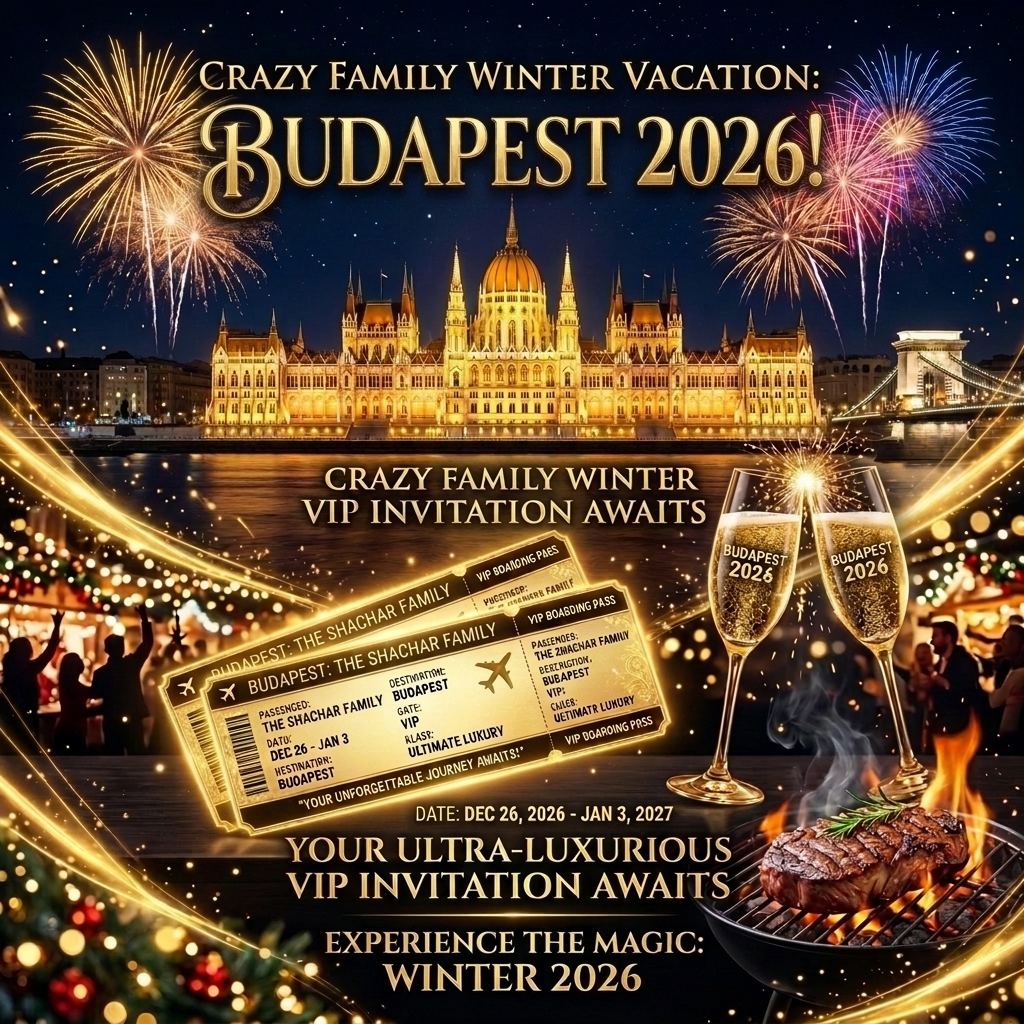
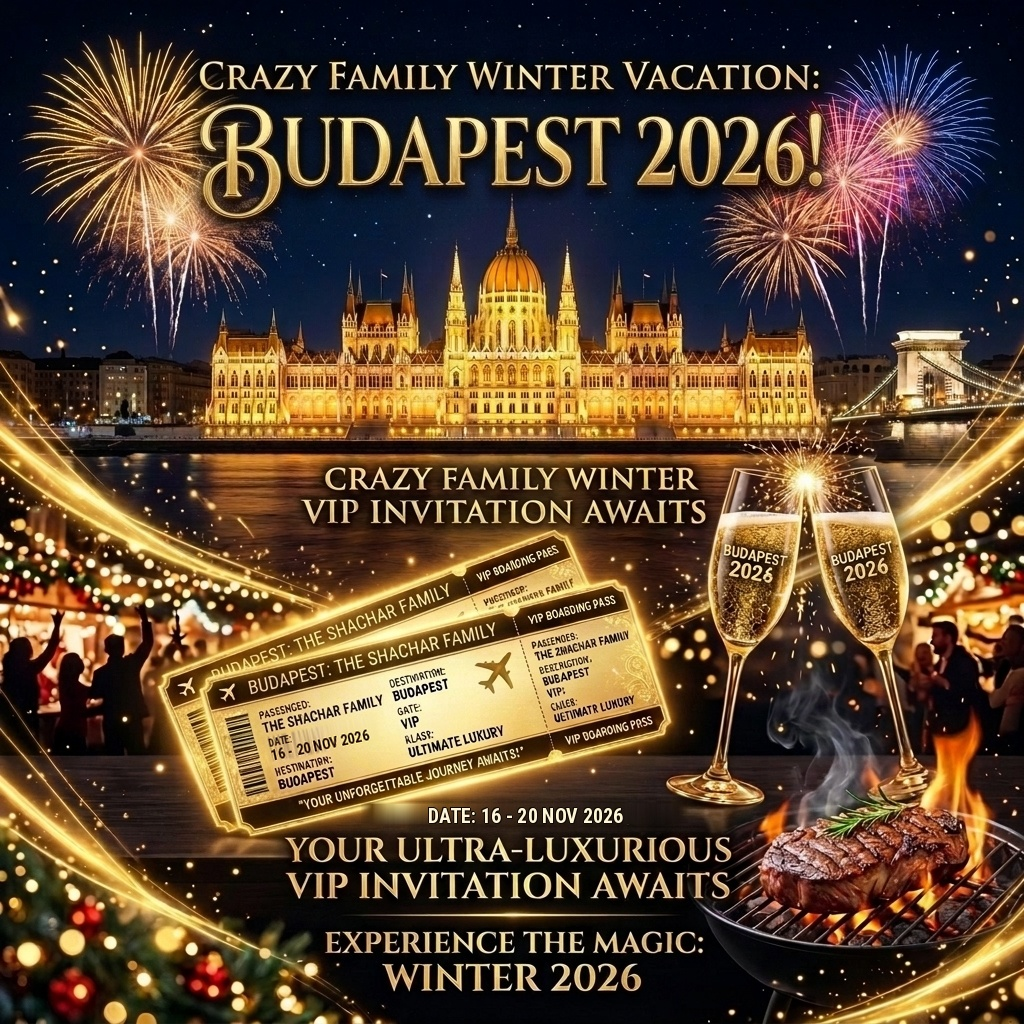
Update teaser invite image dates to 16-20 Nov 2026 and Shachar family headers

Changed region(s): [[0.3438, 0.7812, 0.6562, 0.8125], [0.25, 0.7188, 0.3438, 0.75]]

diff --git a/index.html b/index.html
@@ -115,18 +115,18 @@
           </div>
           <div>
             <div class="flex items-center gap-2 flex-wrap justify-center sm:justify-start">
-              <h1 class="text-xl sm:text-2xl font-black tracking-tight text-white">בודפשט: 4 מבוגרים</h1>
+              <h1 class="text-xl sm:text-2xl font-black tracking-tight text-white">בודפשט: משפחת שחר 👑</h1>
               <span class="text-xs bg-emerald-500 text-slate-950 px-2.5 py-0.5 rounded-full font-black shadow-xs flex items-center gap-1">
                 <span>✓</span> הסעה הוזמנה!
               </span>
-              <span class="text-xs bg-amber-400 text-slate-950 px-2.5 py-0.5 rounded-full font-bold">אל על LY2365 / LY2366</span>
+              <span class="text-xs bg-amber-400 text-slate-950 px-2.5 py-0.5 rounded-full font-bold">16-20 בנובמבר 2026</span>
             </div>
             <p class="text-xs text-slate-300 font-medium flex items-center gap-2 justify-center sm:justify-start mt-0.5">
               <span>🏨 7 Seasons Apartments</span>
               <span>•</span>
               <span>הזמנה: <strong>w-7647666-1</strong></span>
               <span>•</span>
-              <span>שני עד שישי</span>
+              <span>16-20.11.2026 (ב'-ו')</span>
             </p>
           </div>
         </div>
@@ -134,11 +134,11 @@
         <!-- Flight & Print Quick Actions -->
         <div class="flex items-center gap-2 text-xs flex-wrap justify-center sm:justify-end">
           <div class="bg-white/10 backdrop-blur px-2.5 py-1.5 rounded-xl border border-white/15 text-center">
-            <span class="block text-sky-300 text-[10px]">הלוך ב' (LY2365)</span>
+            <span class="block text-sky-300 text-[10px]">הלוך ב' 16.11 (LY2365)</span>
             <span class="font-bold text-xs text-white">נחיתה 08:50</span>
           </div>
           <div class="bg-amber-400/20 backdrop-blur px-2.5 py-1.5 rounded-xl border border-amber-400/30 text-center">
-            <span class="block text-amber-300 text-[10px]">חזור ו' (LY2366)</span>
+            <span class="block text-amber-300 text-[10px]">חזור ו' 20.11 (LY2366)</span>
             <span class="font-black text-xs text-amber-300">המראה 09:50 ⚠</span>
           </div>
           <button onclick="window.print()" class="no-print bg-amber-400 hover:bg-amber-300 active:scale-95 text-slate-950 font-bold px-3 py-1.5 rounded-xl shadow transition flex items-center gap-1.5">
@@ -292,19 +292,19 @@
       
       <div class="grid grid-cols-1 sm:grid-cols-2 lg:grid-cols-5 gap-2.5 w-full">
         <button onclick="showDay(1)" id="day-btn-1" class="day-tab-btn py-3 px-3 rounded-2xl text-xs sm:text-sm font-bold bg-indigo-700 text-white shadow-md text-center">
-          יום ב' ✈ 08:50 (איסוף מוזמן! בזיליקה, Meatology)
+          יום ב' 16.11 ✈ 08:50 (איסוף מוזמן! בזיליקה, Meatology)
         </button>
         <button onclick="showDay(2)" id="day-btn-2" class="day-tab-btn py-3 px-3 rounded-2xl text-xs sm:text-sm font-bold bg-white text-slate-700 border border-slate-200 text-center hover:bg-slate-50">
-          יום ג' 🌦 (ארמון הפרלמנט, השוק הגדול, משתה סר לנסלוט)
+          יום ג' 17.11 🌦 (ארמון הפרלמנט, השוק הגדול, סר לנסלוט)
         </button>
         <button onclick="showDay(3)" id="day-btn-3" class="day-tab-btn py-3 px-3 rounded-2xl text-xs sm:text-sm font-bold bg-white text-slate-700 border border-slate-200 text-center hover:bg-slate-50">
-          יום ד' 🛍 (בית הטרור, שופינג WestEnd, בשר ו-Szimpla)
+          יום ד' 18.11 🛍 (בית הטרור, שופינג WestEnd, בשר ו-Szimpla)
         </button>
         <button onclick="showDay(4)" id="day-btn-4" class="day-tab-btn py-3 px-3 rounded-2xl text-xs sm:text-sm font-bold bg-white text-slate-700 border border-slate-200 text-center hover:bg-slate-50">
-          יום ה' ⛅ (בודה, ואצי אוצה, שייט דנובה, בופה Trófea)
+          יום ה' 19.11 ⛅ (בודה, ואצי אוצה, שייט דנובה, בופה Trófea)
         </button>
         <button onclick="showDay(5)" id="day-btn-5" class="day-tab-btn py-3 px-3 rounded-2xl text-xs sm:text-sm font-bold bg-white text-slate-700 border border-slate-200 text-center hover:bg-slate-50">
-          יום ו' ✈ 09:50 (איסוף 06:15, שדה ב-06:50, המראה)
+          יום ו' 20.11 ✈ 09:50 (איסוף 06:15, שדה ב-06:50, המראה)
         </button>
       </div>
 
@@ -1570,7 +1570,7 @@
     const daysData = [
       {
         dayNum: 1,
-        title: "יום שני: נחיתת בוקר (08:50), בראנץ', שוק הבזיליקה וארוחת בשר ב-Meatology",
+        title: "יום שני, 16.11.2026: נחיתת בוקר (08:50), בראנץ', שוק הבזיליקה וארוחת בשר ב-Meatology",
         badge: "טיסת אל על LY2365 | נחיתה 08:50 | הסעה מוזמנת (w-7647666-1)",
         meatRestaurant: "Meatology Budapest (~105-145 ₪)",
         steps: [
@@ -1626,7 +1626,7 @@
       },
       {
         dayNum: 2,
-        title: "יום שלישי: ארמון הפרלמנט, השוק המקורה הגדול ומשתה אבירים ב-Sir Lancelot",
+        title: "יום שלישי, 17.11.2026: ארמון הפרלמנט, השוק המקורה הגדול ומשתה אבירים ב-Sir Lancelot",
         badge: "יום מקורה חכם | 🌦 10°C (ממטרים לפרקים)",
         meatRestaurant: "Sir Lancelot Knights' Restaurant (~135-165 ₪)",
         steps: [
@@ -1666,7 +1666,7 @@
       },
       {
         dayNum: 3,
-        title: "יום רביעי: מוזיאון בית הטרור, שופינג ענק ב-WestEnd, בשרים ובר Szimpla",
+        title: "יום רביעי, 18.11.2026: מוזיאון בית הטרור, שופינג ענק ב-WestEnd, בשרים ובר Szimpla",
         badge: "תרבות, שופינג מבוגרים וחיי לילה | 🌧 10°C",
         meatRestaurant: "Gettó Gulyás (צהריים) + Menza (ערב)",
         steps: [
@@ -1714,7 +1714,7 @@
       },
       {
         dayNum: 4,
-        title: "יום חמישי: מצודת הדייגים בבודה, שופינג בואצי, שייט דנובה ובופה Trófea",
+        title: "יום חמישי, 19.11.2026: מצודת הדייגים בבודה, שופינג בואצי, שייט דנובה ובופה Trófea",
         badge: "היום הכי בהיר בשבוע! | ⛅ 11°C (יבש וראות מושלמת)",
         meatRestaurant: "Trófea Grill Király (בופה גריל בשרים חופשי - 145 ₪)",
         steps: [
@@ -1745,7 +1745,7 @@
           {
             time: "18:15 - 19:30",
             title: "שייט ערב מנצנץ על נהר הדנובה (Legenda / Silverline)",
-            desc: "היום הכי בהיר בשבוע – ראות מושלמת! מפליגים מול בניין הפרלמנט המואר באורות זהב עוצרי נשימה. ספינה מחוממת עם כוס יין/שמפניה כלולה.",
+            desc: "היום הכי בהיר בשבוע – ראות מושלמת! מפליגים מול בניין הפרלמנט המואר באורות זהב עוצרי נשימה. ספינה מחוממת עם כוס ייין/שמפניה כלולה.",
             price: "9,000 Ft (~95 ₪ / 23€) לאדם",
             siteUrl: "https://legenda.hu",
             mapQuery: "Legenda+City+Cruises+Budapest"
@@ -1762,7 +1762,7 @@
       },
       {
         dayNum: 5,
-        title: "יום שישי: יציאה ב-06:15, התייצבות בשדה ב-06:50, המראה ב-09:50 בטיסה LY2366",
+        title: "יום שישי, 20.11.2026: יציאה ב-06:15, התייצבות בשדה ב-06:50, המראה ב-09:50 בטיסה LY2366",
         badge: "טיסת חזור אל על LY2366 | המראה 09:50 בבוקר | נחיתה 14:00",
         meatRestaurant: "ארוחת שישי בבית בישראל",
         steps: [
